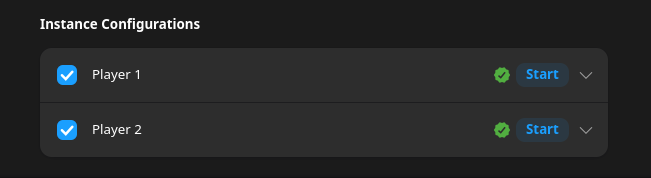
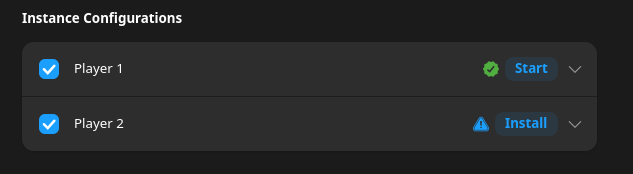
refactor(gui): improve button state management and UI feedback
- Update launch button labels based on verification and runtime states
- Add helper function `_update_button_label` to centralize button state logic
- Add tooltips to verification status icons for better UX
- Change refresh button tooltip text from Portuguese to English
- Enhance instance launch/stop functionality with proper state updates
- Improve command building with better formatting and removal of unnecessary flags

docs: update documentation to reflect Install button label change

- Update GUIDE.md, GUIDE.es.md and GUIDE.pt-br.md to reference the new "Install" button label
- Change "Start" button references to "Install" when referring to unverified instances
- Update Spanish guide to use English button labels for consistency
- Update screenshot reference in documentation

diff --git a/src/gui/layout_editor.py b/src/gui/layout_editor.py
@@ -430,7 +430,7 @@ class LayoutSettingsPage(Adw.PreferencesPage):
 
             joystick_row = create_device_row("Gamepad", "joystick", expander)
             refresh_button = Gtk.Button.new_from_icon_name("view-refresh-symbolic")
-            refresh_button.set_tooltip_text("Atualizar lista de dispositivos")
+            refresh_button.set_tooltip_text("Update device list")
             refresh_button.get_style_context().add_class("flat")
             refresh_button.connect("clicked", self._on_refresh_joysticks_clicked, joystick_row)
             joystick_row.add_suffix(refresh_button)
@@ -454,30 +454,43 @@ class LayoutSettingsPage(Adw.PreferencesPage):
             refresh_rate_row.connect("notify::selected-item", self._on_setting_changed)
             expander.add_row(refresh_rate_row)
 
-            launch_button = Gtk.Button(label="Start")
+            # Determines the initial button label based on verification
+            instance_path = Config.get_steam_home_path(i)
+            is_verified = self.steam_verifier.verify(instance_path)
+            initial_label = "Start" if is_verified else "Install"
+
+            launch_button = Gtk.Button(label=initial_label)
             launch_button.get_style_context().add_class("configure-button")
             launch_button.set_valign(Gtk.Align.CENTER)
             launch_button.connect("clicked", self._on_instance_launch_clicked, i)
             expander.add_suffix(launch_button)
 
-            self.player_rows.append(
-                {
-                    "checkbox": checkbox,
-                    "expander": expander,
-                    "joystick": joystick_row,
-                    "grab_input": grab_input_switch,
-                    "audio": audio_row,
-                    "refresh_rate": refresh_rate_row,
-                    "status_icon": None,
-                    "launch_button": launch_button,
-                    "is_running": False,
-                }
-            )
+            row_dict = {
+                "checkbox": checkbox,
+                "expander": expander,
+                "joystick": joystick_row,
+                "grab_input": grab_input_switch,
+                "audio": audio_row,
+                "refresh_rate": refresh_rate_row,
+                "status_icon": None,
+                "launch_button": launch_button,
+                "is_running": False,
+            }
+
+            # Updates the button using the helper function to ensure the style is correct
+            self._update_button_label(row_dict, False, is_verified)
+
+            self.player_rows.append(row_dict)
 
     def _run_all_verifications(self):
         """Run verifications for all instances."""
         for i in range(len(self.player_rows)):
             self._verify_instance(i)
+        # Ensures that the button states are updated after all verifications
+        for i, row_data in enumerate(self.player_rows):
+            is_verified = self.verification_statuses.get(i, False)
+            # Updates the button using the helper function
+            self._update_button_label(row_data, row_data["is_running"], is_verified)
 
     def _verify_instance(self, instance_num: int):
         instance_path = Config.get_steam_home_path(instance_num)
@@ -485,6 +498,18 @@ class LayoutSettingsPage(Adw.PreferencesPage):
         self.verification_statuses[instance_num] = is_verified
         self._update_verification_status_ui(instance_num, is_verified)
         self.emit("verification-completed")
+
+    def _update_button_label(self, row_dict, is_running, is_verified):
+        """Update the button label and style based on execution and verification states."""
+        if is_running:
+            row_dict["launch_button"].set_label("Stop")
+            row_dict["launch_button"].get_style_context().add_class("destructive-action")
+        elif is_verified:
+            row_dict["launch_button"].set_label("Start")
+            row_dict["launch_button"].get_style_context().remove_class("destructive-action")
+        else:
+            row_dict["launch_button"].set_label("Install")
+            row_dict["launch_button"].get_style_context().remove_class("destructive-action")
 
     def _update_verification_status_ui(self, instance_num: int, is_verified: bool):
         if instance_num >= len(self.player_rows):
@@ -497,11 +522,16 @@ class LayoutSettingsPage(Adw.PreferencesPage):
             row_dict["expander"].remove(row_dict["status_icon"])
             row_dict["status_icon"] = None
 
+        # Updates the button based on verification and execution state
+        self._update_button_label(row_dict, row_dict["is_running"], is_verified)
+
         if is_verified:
             icon = Gtk.Image.new_from_resource("/io/github/mall0r/Twinverse/icons/check-icon.svg")
+            icon.set_tooltip_text("Press 'Start' to open this instance in desktop mode.")
             icon.get_style_context().add_class("verification-passed-icon")
         else:
             icon = Gtk.Image.new_from_resource("/io/github/mall0r/Twinverse/icons/alert-icon.svg")
+            icon.set_tooltip_text("Press 'Install' to configure this instance")
             icon.get_style_context().add_class("verification-failed-icon")
 
         row_dict["expander"].add_suffix(icon)
@@ -526,16 +556,16 @@ class LayoutSettingsPage(Adw.PreferencesPage):
         instance_num = instance_idx
 
         if row_data["is_running"]:
+            # Stop the instance
             self.instance_service.terminate_instance(instance_num)
-            button.set_label("Start")
-            button.get_style_context().remove_class("destructive-action")
             row_data["is_running"] = False
         else:
+            # Regardless of whether it is verified or not, start the instance
+            # The "Install" vs "Start" state is only visual for the user
             self.instance_service.launch_instance(self.profile, instance_num, use_gamescope_override=False)
-            button.set_label("Stop")
-            button.get_style_context().add_class("destructive-action")
             row_data["is_running"] = True
 
+        # Update the interface state after any operation
         self._verify_instance(instance_num)
         self.emit("instance-state-changed")
 
@@ -547,10 +577,8 @@ class LayoutSettingsPage(Adw.PreferencesPage):
         """Set the running state for all player rows."""
         for row_data in self.player_rows:
             row_data["is_running"] = is_running
-            button = row_data["launch_button"]
-            if is_running:
-                button.set_label("Stop")
-                button.get_style_context().add_class("destructive-action")
-            else:
-                button.set_label("Start")
-                button.get_style_context().remove_class("destructive-action")
+            # Gets the verification status for this instance
+            instance_idx = self.player_rows.index(row_data)
+            is_verified = self.verification_statuses.get(instance_idx, False)
+            # Updates the button using the helper function
+            self._update_button_label(row_data, is_running, is_verified)

diff --git a/src/services/cmd_builder.py b/src/services/cmd_builder.py
@@ -82,28 +82,24 @@ class CommandBuilder:
 
         refresh_rate_str = str(refresh_rate)
 
+        # fmt: off
         cmd = [
             "gamescope",
             "-e",
-            "-W",
-            str(width),
-            "-H",
-            str(height),
-            "-w",
-            str(width),
-            "-h",
-            str(height),
-            "-o",
-            refresh_rate_str,
-            "-r",
-            refresh_rate_str,
-            "--mangoapp",
+            "-W", str(width),
+            "-H", str(height),
+            "-w", str(width),
+            "-h", str(height),
+            "-o", refresh_rate_str,
+            "-r", refresh_rate_str,
+            "--adaptive-sync",
         ]
+        # fmt: on
 
         if not self.profile.is_splitscreen_mode:
-            cmd.extend(["-f", "--adaptive-sync"])
+            cmd.append("-f")
         else:
-            cmd.append("-b")  # Borderless
+            cmd.append("-b")
 
         if should_add_grab_flags:
             self.logger.info(f"Instance {self.instance_num}: Using dedicated mouse. Grabbing input.")
@@ -115,7 +111,7 @@ class CommandBuilder:
         """Build the base steam command."""
         if self.profile.use_gamescope:
             self.logger.info(f"Instance {self.instance_num}: Using Steam command with Gamescope flags.")
-            return ["steam", "-gamepadui", "-steamdeck", "-steamos3"]
+            return ["steam", "-gamepadui", "-steamos3"]
         else:
             self.logger.info(f"Instance {self.instance_num}: Using plain Steam command.")
             return ["steam"]
@@ -130,27 +126,21 @@ class CommandBuilder:
         orig_home = Path.home()
         orig_local = orig_home / ".local"
 
+        # fmt: off
         cmd = [
             "bwrap",
-            "--dev-bind",
-            "/",
-            "/",
-            "--dev-bind",
-            "/dev",
-            "/dev",
-            "--tmpfs",
-            "/dev/shm",
-            "--proc",
-            "/proc",
+            "--dev-bind", "/", "/",
+            "--dev-bind", "/dev", "/dev",
+            "--tmpfs", "/dev/shm",
+            "--proc", "/proc",
             "--die-with-parent",
-            "--tmpfs",
-            "/tmp",
-            "--bind",
-            "/tmp/.X11-unix",
-            "/tmp/.X11-unix",
+            "--tmpfs", "/tmp",
+            "--bind", "/tmp/.X11-unix", "/tmp/.X11-unix",
         ]
+        # fmt: on
 
         # --- Device Isolation ---
+
         cmd.extend(["--tmpfs", "/dev/input"])
 
         joystick_path = self.device_info.get("joystick_path_str_for_instance")
@@ -179,14 +169,11 @@ class CommandBuilder:
 
         # --- Home Directory Isolation ---
         # Mount the instance-specific directories over the real Steam locations
-        cmd.extend(
-            [
-                "--bind",
-                str(self.home_path),
-                str(orig_home),
-            ]
-        )
+        # fmt: off
 
+        cmd.extend(["--bind", str(self.home_path), str(orig_home)])
+
+        # fmt: on
         # Mount host's common games and compatibility tools into the sandboxed Steam directory
         host_steam_path = orig_local / "share/Steam"
         sandbox_steam_path = orig_local / "share/Steam"  # Same path, but it's now a mount point

diff --git a/docs/GUIDE.es.md b/docs/GUIDE.es.md
@@ -70,15 +70,15 @@ Para cada instancia, puedes configurar las siguientes opciones:
 
 ## 4. Iniciar una instancia
 
-Tras configurar una instancia, haz clic en el botón **"Iniciar"** junto a ella para iniciar una instancia de Steam en modo escritorio. La primera vez, el cliente de Steam se descargará e instalará automáticamente; este proceso puede tardar unos minutos.
+Tras configurar una instancia, haz clic en el botón **"Start"** junto a ella para iniciar una instancia de Steam en modo escritorio. La primera vez, el cliente de Steam se descargará e instalará automáticamente; este proceso puede tardar unos minutos.
 
 Debes iniciar sesión en modo escritorio. Tras iniciar sesión y configurar tu cliente de Steam, simplemente cierra la instancia.
 
-El botón **"Reproducir"** ejecuta todas las instancias seleccionadas y, al marcarlas, las ejecutará todas con el GameScope y ajustará el tamaño de cada una.
+El botón **"Play"** ejecuta todas las instancias seleccionadas y, al marcarlas, las ejecutará todas con el GameScope y ajustará el tamaño de cada una.
 
 Si usas KDE Plasma, también las moverá automáticamente para dividir la pantalla de tu monitor principal, o bien, las moverá entre monitores si has seleccionado pantalla completa.
 
-Solo las instancias que ya tienen Steam instalado pueden iniciarse con **"Reproducir"**. Puedes verificarlo con el icono de verificación <img width="16" height="16" alt="check-icon" src="https://raw.githubusercontent.com/mall0r/Twinverse/master/res/icons/check-icon.svg" /> en la instancia. Si el icono es un <img width="16" height="16" alt="alert-icon" src="https://raw.githubusercontent.com/mall0r/Twinverse/master/res/icons/alert-icon.svg" />, instala Steam haciendo clic en el botón **"Iniciar"** en esa instancia.
+Solo las instancias que ya tienen Steam instalado pueden iniciarse con **"Play"**. Puedes verificarlo con el icono de verificación <img width="16" height="16" alt="check-icon" src="https://raw.githubusercontent.com/mall0r/Twinverse/master/res/icons/check-icon.svg" /> en la instancia. Si el icono es un <img width="16" height="16" alt="alert-icon" src="https://raw.githubusercontent.com/mall0r/Twinverse/master/res/icons/alert-icon.svg" />, instala Steam haciendo clic en el botón **"Install"** en esa instancia.
 
 <img width="651" height="178" alt="instance-config" src="https://raw.githubusercontent.com/mall0r/Twinverse/master/share/screenshots/instance-config.png" />
 

diff --git a/docs/GUIDE.pt-br.md b/docs/GUIDE.pt-br.md
@@ -77,7 +77,7 @@ Você deve fazer login no modo desktop. Após logar e configurar seu Cliente Ste
 o Botão **"Play"**, executa todas as instancias marcadas e com um check, ele vai executar todas com o gamescope e vai redimensionar cada uma.
 Se você estiver usando KDE Plasma, tambem vai move-las automaticamente para dividir a tela idealmente pra seu monitor principal, ou move-las entre seu monitores caso tenha selecionado fullscreen.
 
-Apenas instâncias que já possuem o Steam instalado podem ser iniciadas com o **"Play"**. Você pode verificar isso pelo ícone de check <img width="16" height="16" alt="check-icon" src="https://raw.githubusercontent.com/mall0r/Twinverse/master/res/icons/check-icon.svg" /> na instância. Se o ícone for um <img width="16" height="16" alt="alert-icon" src="https://raw.githubusercontent.com/mall0r/Twinverse/master/res/icons/alert-icon.svg" />, instale o Steam clicando no botão **"Start"** daquela instância.
+Apenas instâncias que já possuem o Steam instalado podem ser iniciadas com o **"Play"**. Você pode verificar isso pelo ícone de check <img width="16" height="16" alt="check-icon" src="https://raw.githubusercontent.com/mall0r/Twinverse/master/res/icons/check-icon.svg" /> na instância. Se o ícone for um <img width="16" height="16" alt="alert-icon" src="https://raw.githubusercontent.com/mall0r/Twinverse/master/res/icons/alert-icon.svg" />, instale o Steam clicando no botão **"Install"** daquela instância.
 
 <img width="651" height="178" alt="instance-config" src="https://raw.githubusercontent.com/mall0r/Twinverse/master/share/screenshots/instance-config.png" />
 

diff --git a/docs/GUIDE.md b/docs/GUIDE.md
@@ -77,7 +77,7 @@ The **"Play"** button runs all selected instances, and with a checkmark, it will
 
 If you are using KDE Plasma, it will also automatically move them to ideally split the screen for your main monitor, or move them between your monitors if you have selected fullscreen.
 
-Only instances that already have Steam installed can be started with **"Play"**. You can verify this by the check icon <img width="16" height="16" alt="check-icon" src="https://raw.githubusercontent.com/mall0r/Twinverse/master/res/icons/check-icon.svg" /> on the instance. If the icon is an <img width="16" height="16" alt="alert-icon" src="https://raw.githubusercontent.com/mall0r/Twinverse/master/res/icons/alert-icon.svg" />, install Steam by clicking the **"Start"** button on that instance.
+Only instances that already have Steam installed can be started with **"Play"**. You can verify this by the check icon <img width="16" height="16" alt="check-icon" src="https://raw.githubusercontent.com/mall0r/Twinverse/master/res/icons/check-icon.svg" /> on the instance. If the icon is an <img width="16" height="16" alt="alert-icon" src="https://raw.githubusercontent.com/mall0r/Twinverse/master/res/icons/alert-icon.svg" />, install Steam by clicking the **"Install"** button on that instance.
 
 <img width="651" height="178" alt="instance-config" src="https://raw.githubusercontent.com/mall0r/Twinverse/master/share/screenshots/instance-config.png" />
 
